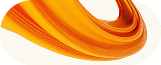
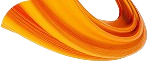
java script

diff --git a/Vasylchuk_style.css b/Vasylchuk_style.css
@@ -4,22 +4,48 @@ font-family: 'Inter', sans-serif;
   font-size: 14px;
   font-weight: 400;
 }
+:root {
+    --bg-main: #f2eefe;          
+    --text-main: #111111;     
+    --header-bg:#f2eefe ;        
+    --card-bg: #ffffff;          
+}
 
+[data-theme="dark"] {
+    --bg-main: #4e4c5c;          
+    --text-main: #8d8787;      
+    --header-bg: #4e4c5c;     
+    --card-bg: #2e2c38;    
+}     
+
+.header_top .ekran1, .ekran2, .ekran3, .ekran4, .ekran5, .ekran6, .footer, .container6 {
+    background-color: var(--bg-main);
+    color: var(--text-main);
+}
 
 body{
     font-family: 'Inter', sans-serif;
   font-weight: 400;
-    background-color: #f2eefe;
+      background-color: var(--bg-main);
+    color: var(--text-main);
+    transition: background-color 0.3s ease, color 0.3s ease; 
     
   max-width: 1220px;
   margin: 0 auto;
     
 }
+#header.header{
+   background-color: var(--header-bg);
+   
+}
   .header{
+    background-color: var(--header-bg);
   font-size: 14px;
     padding:10px 50px;
 }
 .container{
+  
+    background-color: var(--header-bg);
   width: 1100px;
   margin: 0 auto;
   padding: 0 10px;
@@ -300,8 +326,8 @@ img{
     grid-row-end: 3;  
 }
 .dav2{
-    border-radius: 30px;
-    background-color: #ffffff;
+    border-radius: 30px; 
+    background-color: var(--card-bg);
     grid-column-start: 2;
     grid-column-end: 4;
     grid-row-start: 3;
@@ -387,7 +413,7 @@ img{
     z-index: 1;
     text-align: center;
     font-size: 26px;
-    color: white;
+    color: var(--text-main);
 }
 .title5{
   
@@ -464,12 +490,14 @@ img{
 }
 
 .white_box {
+    border-radius: 30px;
+    background-color: var(--card-bg);
   display: flex;
   justify-content: space-between;
   gap: 30px;
-  max-width: 1000px;
   margin: 0 auto;
   padding: 40px 20px;
+  
 }
 .card, .card1 {
   display: flex;
@@ -498,15 +526,11 @@ img{
     padding-left: 20px;
   }
 .card, .card1, .card2{
-  max-width: 300px;
+  max-width: 400px;
   text-align: left;
   height: 265px;
-  border-radius: 30px ;
-  transition: transform 0.3s ease, box-shadow 0.3s ease; 
+  border-radius: 30px ; 
 }
-.card:hover {
-    box-shadow: 0 16px 40px #F74715;
-  }
 
 .container5{
    display: grid;
@@ -568,8 +592,8 @@ img{
   margin-top: 15px;
   font-size: 40px;
 }
-.container6{
-  background-color: #FFFFFF;
+.container6{    background-color: var(--bg-main);
+    color: var(--text-main);
   display: grid;
   grid-template-columns: 7;
   grid-template-rows: 100px 210px 50px 280px 90px;
@@ -710,6 +734,25 @@ img{
 #scrollTopBtn.show {
     opacity: 1;
     visibility: visible;
+}
+.theme-btn {
+  margin-left: 15px;
+    background: transparent;
+    border: 2px solid var(--text-color);
+    border-radius: 50%;
+    width: 40px;
+    height: 40px;
+    display: flex;
+    align-items: center;
+    justify-content: center;
+    cursor: pointer;
+    font-size: 18px;
+    transition: all 0.3s ease;
+}
+
+.theme-btn:hover {
+    transform: scale(1.1);
+    background-color: rgba(255, 255, 255, 0.1);
 }
 
 

diff --git a/swiper.js b/swiper.js
@@ -7,7 +7,7 @@ window.addEventListener('scroll', function() {
         header.style.position = 'fixed';
         header.style.top = '0';
         header.style.zIndex = '1000';
-        header.style.background = '#f2eefe';
+        header.style.background = 'var(--header-bg)';
     } else {
         header.style.position = 'static';
         header.style.background = 'transparent';
@@ -53,4 +53,31 @@ scrollTopBtn.addEventListener('click', () => {
         top: 0,
         behavior: 'smooth'
     });
+});
+
+const themeToggleBtn = document.querySelector('#themeToggle');
+const themeIcon = themeToggleBtn.querySelector('.theme-icon');
+
+// Перевіряємо збережену тему
+const savedTheme = localStorage.getItem('theme');
+if (savedTheme) {
+    document.documentElement.setAttribute('data-theme', savedTheme);
+    if (savedTheme === 'dark') {
+        themeIcon.textContent = '☀';
+    }
+}
+
+// Перемикання при кліку
+themeToggleBtn.addEventListener('click', () => {
+    const currentTheme = document.documentElement.getAttribute('data-theme');
+    
+    if (currentTheme === 'dark') {
+        document.documentElement.removeAttribute('data-theme');
+        localStorage.setItem('theme', 'light');
+        themeIcon.textContent = '🌙';
+    } else {
+        document.documentElement.setAttribute('data-theme', 'dark');
+        localStorage.setItem('theme', 'dark');
+        themeIcon.textContent = '☀';
+    }
 });

diff --git a/index.html b/index.html
@@ -14,9 +14,12 @@
             <div class="header_top">
             <div class="logo_block">
                 <img src="headphone(1) 1.png">
-        <div class="logo">Tech</div>
+        <div class="logo">Tech 
+
+        </div><button id="themeToggle" class="theme-btn">
+    <span class="theme-icon">🌙</span>
+</button>
             </div>
-        
 
             <nav class="menu">
     <a href="#ekran2">Продукт</a>
